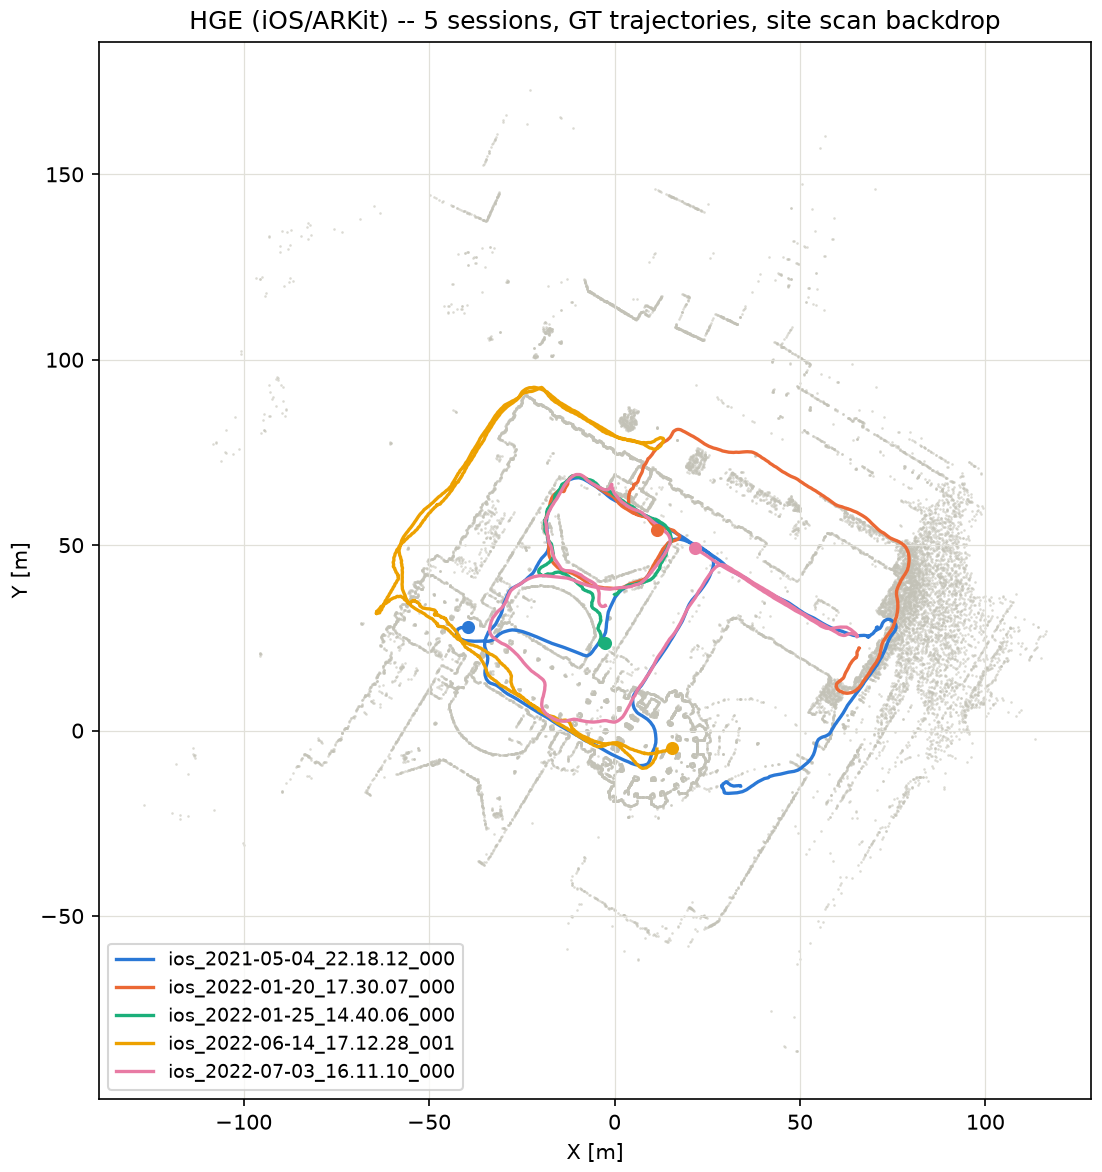
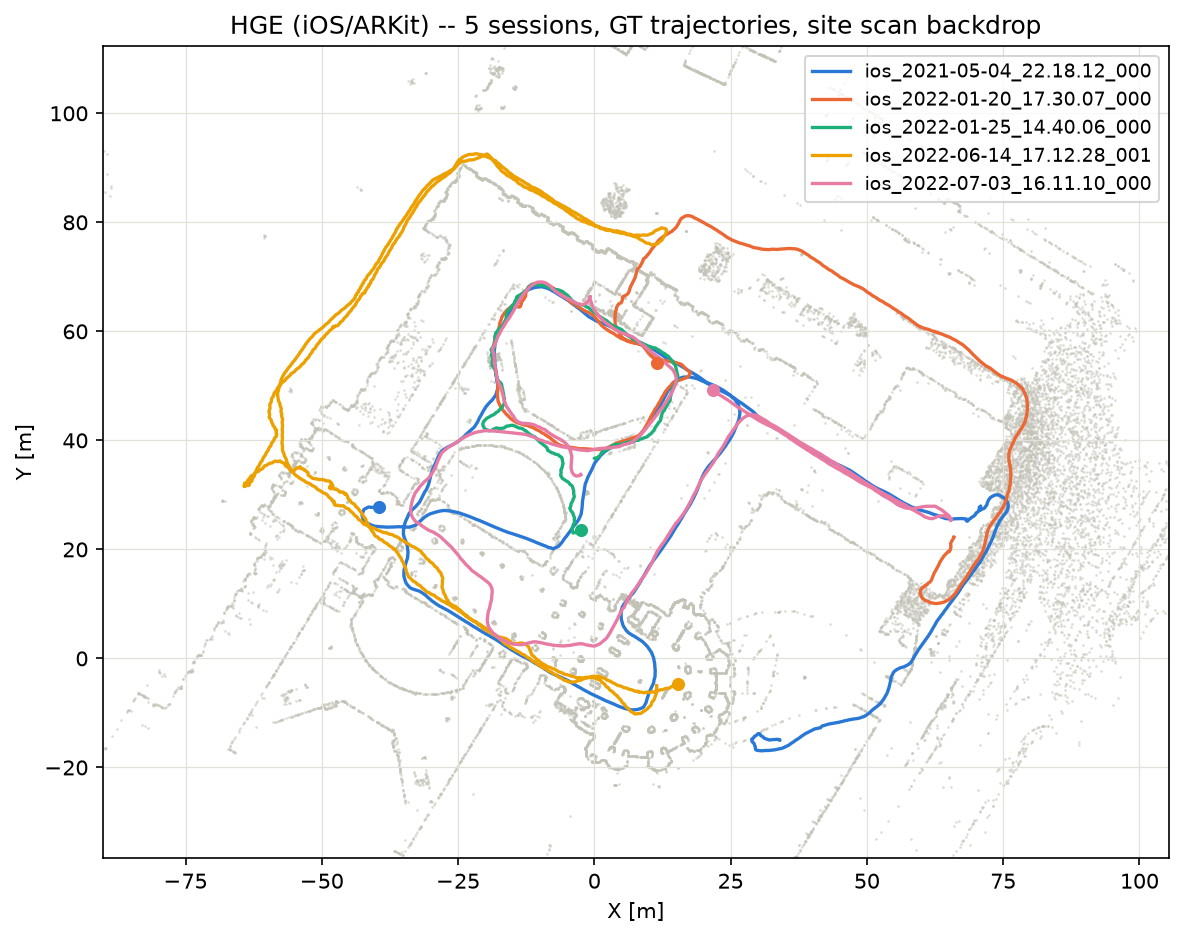
Tighten Datasets section layout: crop HGE figures, cap RobotCar figure height, shrink table
HGE (HoloLens/iOS) figures regenerated with axis limits set tightly around the real
trajectory extent instead of matplotlib's autoscale (which included a lot of empty
scanned area far from any session) -- data-driven, computed from the real GT points,
not a pixel-color guess on the rendered PNG. Aspect ratio goes from ~0.95 (near-square)
to ~1.3-1.4 (landscape), same real content (all 5 trajectories + legend), genuinely
less tall on the page.

RobotCar's real RTK-covered area is genuinely taller than wide (verified via the actual
lat/lon extent, ~1.36km N-S vs ~1.1km E-W); no legitimate crop changes that without
cutting real trajectory, so its figure now uses a fixed height (7cm) instead of a fixed
width, capping its vertical footprint directly rather than fighting the real geography.

Dataset overview table: shortened the caption (was restating every column, now just the
one non-obvious note about EuRoC), tightened column headers, and set \small, to bring
it back to a reasonable footprint.

\newpage -> \clearpage before Main Experiments: \newpage doesn't flush pending [htb]
floats, so a Datasets-section figure could still drift onto a Main Experiments page;
\clearpage forces every pending float to place first.

diff --git a/sections/04_experiments.tex b/sections/04_experiments.tex
@@ -45,26 +45,23 @@ marks this per dataset; \mysecref{sec:method-gate}'s two-tier gate and every ATE
 
 \begin{table}[htb]
   \centering
+  \small
   \begin{tabular*}{\textwidth}{@{\extracolsep{\fill}} llllll}
   \hline
-  \textbf{Dataset} & \textbf{Agent} & \textbf{Env.} & \textbf{Camera(s) used} & \textbf{Sessions} & \textbf{Multi-session GT} \\
+  \textbf{Dataset} & \textbf{Agent} & \textbf{Env.} & \textbf{Camera(s)} & \textbf{Sessions} & \textbf{Multi-sess.\ GT} \\
   \hline
-  KITTI & car & outdoor & \texttt{image\_2} (1 of 4) & 11 (7 eval.) & No \\
-  HGE (HoloLens) & handheld/head-worn AR & indoor + outdoor & \texttt{hetlf} (1 of 4) & 5 & Yes \\
-  HGE (iOS) & handheld AR & indoor + outdoor & \texttt{phone} (1) & 5 & Yes \\
-  HYDRO & legged robot & indoor & \texttt{frontleft} (1 of 4) & 5 & Yes \\
-  RobotCar & car & outdoor & \texttt{stereo\_centre} (1) & 4 (2 splits) & Yes \\
-  VBR & car & outdoor & \texttt{camera\_left} (1 of 2) & 8 & No \\
-  EuRoC & aerial vehicle (MAV) & indoor & \texttt{cam0} (1 of 2) & 11 (3 rooms) & Partial (per room) \\
+  KITTI & car & outdoor & \texttt{image\_2} (1/4) & 11 (7 eval.) & No \\
+  HGE (HoloLens) & handheld/head-worn AR & indoor+outdoor & \texttt{hetlf} (1/4) & 5 & Yes \\
+  HGE (iOS) & handheld AR & indoor+outdoor & \texttt{phone} (1/1) & 5 & Yes \\
+  HYDRO & legged robot & indoor & \texttt{frontleft} (1/4) & 5 & Yes \\
+  RobotCar & car & outdoor & \texttt{stereo\_centre} (1/1) & 4 (2 splits) & Yes \\
+  VBR & car & outdoor & \texttt{camera\_left} (1/2) & 8 & No \\
+  EuRoC & aerial vehicle (MAV) & indoor & \texttt{cam0} (1/2) & 11 (3 rooms) & Partial \\
   \hline
   \end{tabular*}
-  \caption[Dataset overview]{The six evaluation datasets (HGE counted once per capture device),
-    the agent and environment each was captured in, the single camera Polygraph's retrieval and
-    pose estimation actually run on in the main experiments (parenthetical: how many are
-    available in total, used by \mysecref{sec:experiments-ablation-cameras}'s camera-pairing
-    ablation), how many sessions exist, and whether ground truth places more than one session in
-    one shared coordinate frame at all. ``Partial'' for EuRoC: shared within each of the three
-    rooms, not across rooms (\mysecref{sec:experiments-euroc}).}
+  \caption[Dataset overview]{Used/available cameras, agent, environment, session counts, and
+    multi-session-GT eligibility per dataset. EuRoC's ``Partial'': shared GT frame within each
+    of its three rooms, not across rooms (\mysecref{sec:experiments-euroc}).}
   \label{tab:experiments-datasets-overview}
 \end{table}
 
@@ -98,9 +95,9 @@ single, non-revisiting drives.
 
 \begin{figure}[htb]
   \centering
-  \includegraphics[width=0.49\textwidth]{images/04_experiments/01_datasets/dataset_hge_hololens.png}
+  \includegraphics[height=6.5cm]{images/04_experiments/01_datasets/dataset_hge_hololens.png}
   \hfill
-  \includegraphics[width=0.49\textwidth]{images/04_experiments/01_datasets/dataset_hge_ios.png}
+  \includegraphics[height=6.5cm]{images/04_experiments/01_datasets/dataset_hge_ios.png}
   \caption[HGE ground-truth trajectories, both capture devices]{GT trajectories for both HGE
     capture devices, in the site's own shared frame, over a faint backdrop of the real site scan
     (a horizontal slice of the laser/photogrammetry point cloud at trajectory height). Left: 5
@@ -149,9 +146,9 @@ registered to one shared site frame and the same real site-scan backdrop is avai
 
 \begin{figure}[htb]
   \centering
-  \includegraphics[width=0.49\textwidth]{images/04_experiments/01_datasets/dataset_robotcar_easy_osm.png}
+  \includegraphics[height=7cm]{images/04_experiments/01_datasets/dataset_robotcar_easy_osm.png}
   \hfill
-  \includegraphics[width=0.49\textwidth]{images/04_experiments/01_datasets/dataset_robotcar_hard_osm.png}
+  \includegraphics[height=7cm]{images/04_experiments/01_datasets/dataset_robotcar_hard_osm.png}
   \caption[RobotCar ground-truth trajectories, both splits]{RTK GT trajectories for both
     RobotCar splits, restricted to each session's own RTK-usable stretch, over a real
     OpenStreetMap basemap of central Oxford. Left: easy split (3 daytime sessions). Right: hard
@@ -219,7 +216,7 @@ graphs for exactly this reason. EuRoC's own odometry is already extremely tight 
 tightest of any dataset here), so its main results section reframes the comparison around
 cross-session anchoring accuracy rather than raw ATE, which barely moves.
 
-\newpage
+\clearpage
 
 \section{Main Experiments}
 \label{sec:experiments-main}
